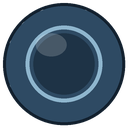
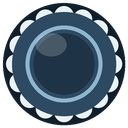
fix(boardgame): expose azul bowl scalloped rim (brief geometry occluded it)

Changed region(s): [[0.0312, 0.0312, 0.9688, 0.9688]]

diff --git a/_art_boardgame.py b/_art_boardgame.py
@@ -3,7 +3,7 @@
 # 重生成：python _gen_boardgame.py
 ASSETS = {
[6 lines of base64/hex data omitted]

diff --git a/_gen_boardgame.py b/_gen_boardgame.py
@@ -416,7 +416,7 @@ def make_azul_bowl(size=128, seed=99):
         py = c + ring * math.sin(a)
         dr.ellipse((R(px - rr), R(py - rr), R(px + rr), R(py + rr)),
                    fill=_rgba("#EAF2F7"))
-    dr.ellipse((R(6), R(6), R(size - 6), R(size - 6)), fill=_rgba("#2E4A63"))
+    dr.ellipse((R(12), R(12), R(size - 12), R(size - 12)), fill=_rgba("#2E4A63"))
     dr.ellipse((R(size * 0.20), R(size * 0.20), R(size * 0.80), R(size * 0.80)),
                outline=_rgba("#8FB6CE"), width=max(1, int(4 * s)))
     dr.ellipse((R(size * 0.26), R(size * 0.26), R(size * 0.74), R(size * 0.74)),
